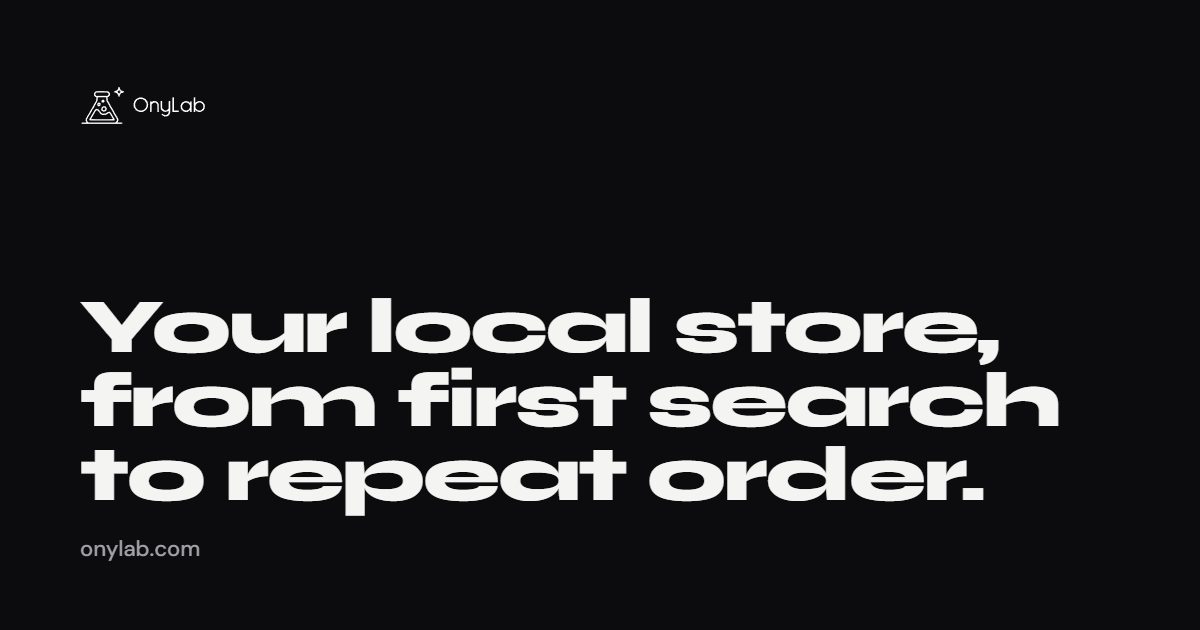
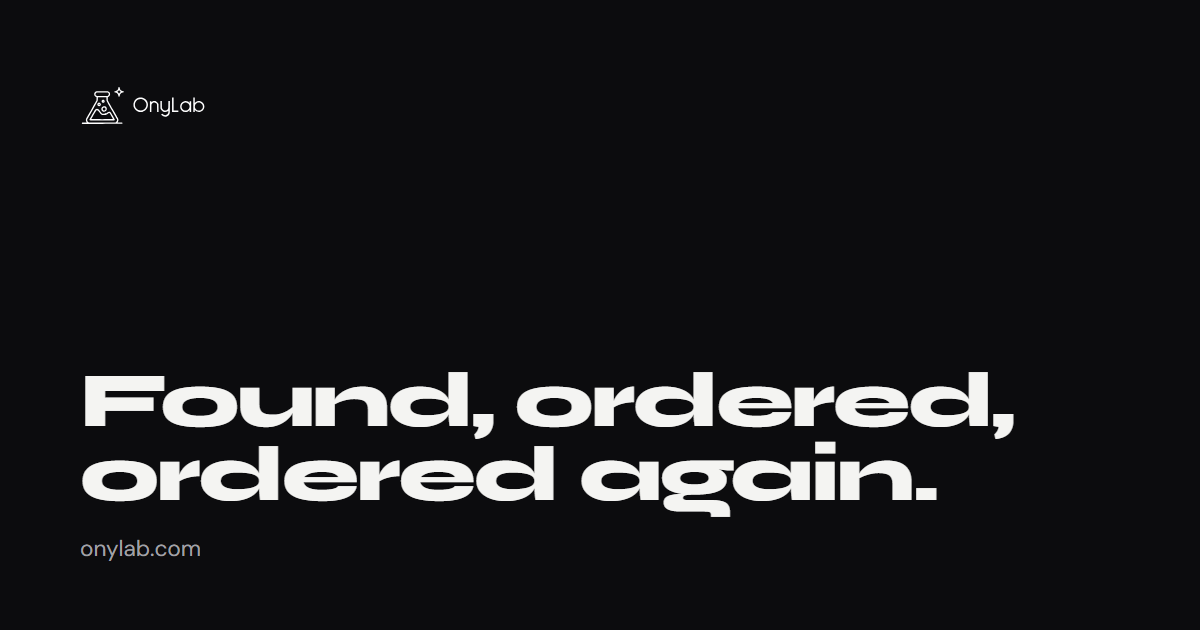
new release

diff --git a/docs/index.html b/docs/index.html
@@ -38,10 +38,10 @@
     <meta property="og:image:type" content="image/png">
     <meta property="og:image:width" content="1200">
     <meta property="og:image:height" content="630">
-    <meta property="og:image:alt" content="OnyLab. Your local store, from first search to repeat order.">
+    <meta property="og:image:alt" content="OnyLab. Found, ordered, ordered again.">
     <meta name="twitter:card" content="summary_large_image">
     <meta name="twitter:image" content="https://onylab.com/og.png">
-    <meta name="twitter:image:alt" content="OnyLab. Your local store, from first search to repeat order.">
+    <meta name="twitter:image:alt" content="OnyLab. Found, ordered, ordered again.">
     <meta name="twitter:title" content="OnyLab | Applications and Integrations for Local Stores">
     <meta name="twitter:description" content="OnyLab builds the applications and integrations local restaurants and shops use to get found, take more orders, and bring customers back.">
     <link rel="canonical" href="https://onylab.com/">
@@ -170,7 +170,7 @@
 
         <section class="olb-section olb-opening">
             <div class="olb-custom-opening-copy">
-                <h1 class="olb-display olb-opening-claim">Your local store, from first search to repeat order.</h1>
+                <h1 class="olb-display olb-opening-claim">Found, ordered, ordered again.</h1>
                 <p class="olb-lede olb-opening-proof">OnyLab builds the applications and integrations that local restaurants and shops use to get found, take more orders, and bring customers back. We ran those businesses before we built software for them.</p>
                 <p class="olb-opening-context"><a href="#contact" class="olb-button">Email us about your store</a></p>
             </div>

diff --git a/docs/privacy/index.html b/docs/privacy/index.html
@@ -20,10 +20,10 @@
     <meta property="og:image:type" content="image/png">
     <meta property="og:image:width" content="1200">
     <meta property="og:image:height" content="630">
-    <meta property="og:image:alt" content="OnyLab. Your local store, from first search to repeat order.">
+    <meta property="og:image:alt" content="OnyLab. Found, ordered, ordered again.">
     <meta name="twitter:card" content="summary_large_image">
     <meta name="twitter:image" content="https://onylab.com/og.png">
-    <meta name="twitter:image:alt" content="OnyLab. Your local store, from first search to repeat order.">
+    <meta name="twitter:image:alt" content="OnyLab. Found, ordered, ordered again.">
     <meta name="twitter:title" content="Privacy Policy | OnyLab">
     <meta name="twitter:description" content="How OnyLab collects, uses, shares, and protects personal information on its website and in its applications, under Canadian and Quebec privacy law.">
     <link rel="canonical" href="https://onylab.com/privacy/">

diff --git a/docs/terms/index.html b/docs/terms/index.html
@@ -20,10 +20,10 @@
     <meta property="og:image:type" content="image/png">
     <meta property="og:image:width" content="1200">
     <meta property="og:image:height" content="630">
-    <meta property="og:image:alt" content="OnyLab. Your local store, from first search to repeat order.">
+    <meta property="og:image:alt" content="OnyLab. Found, ordered, ordered again.">
     <meta name="twitter:card" content="summary_large_image">
     <meta name="twitter:image" content="https://onylab.com/og.png">
-    <meta name="twitter:image:alt" content="OnyLab. Your local store, from first search to repeat order.">
+    <meta name="twitter:image:alt" content="OnyLab. Found, ordered, ordered again.">
     <meta name="twitter:title" content="Terms of Use | OnyLab">
     <meta name="twitter:description" content="The terms that govern the use of the OnyLab website and applications, under the laws of Quebec and Canada.">
     <link rel="canonical" href="https://onylab.com/terms/">

diff --git a/docs/style.css b/docs/style.css
@@ -517,7 +517,7 @@ button { font: inherit; color: inherit; background: none; border: 0; cursor: poi
 .olb-custom-journey-body .olb-caption { margin-top: var(--olb-space-1); }
 
 /* The return loop: out of step 3, up, and back into step 2. It is the one
-   flame mark of the opening, carrying the "repeat order" of the claim. */
+   flame mark of the opening, carrying the "ordered again" of the claim. */
 .olb-custom-journey-loop {
   grid-column: 2;
   grid-row: 2 / 4;
